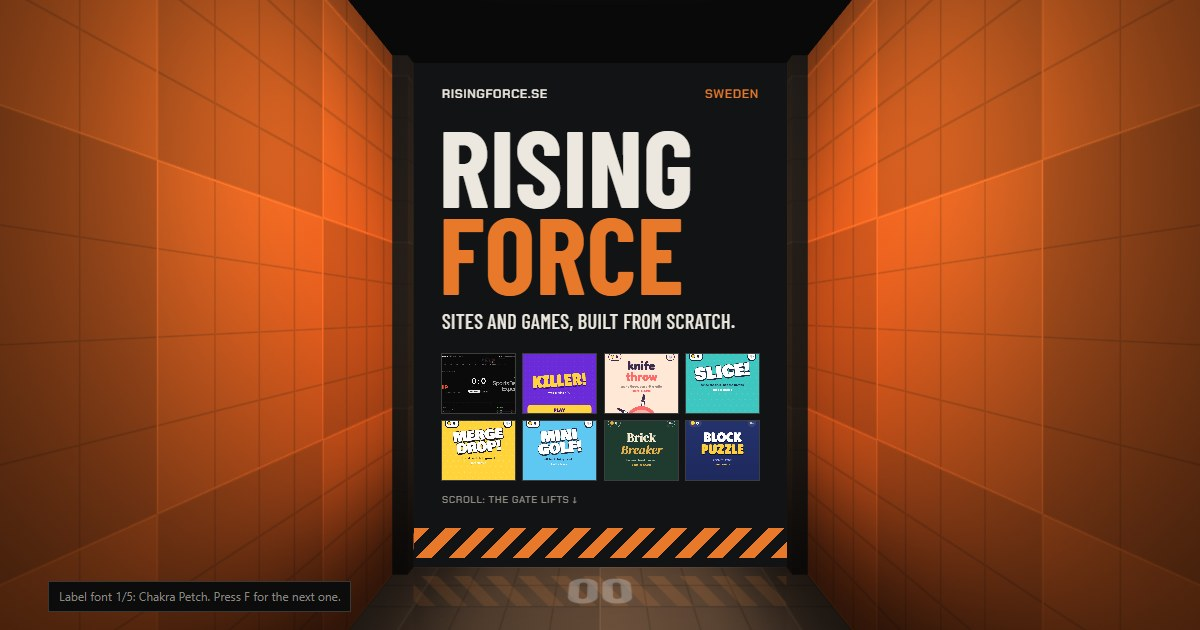
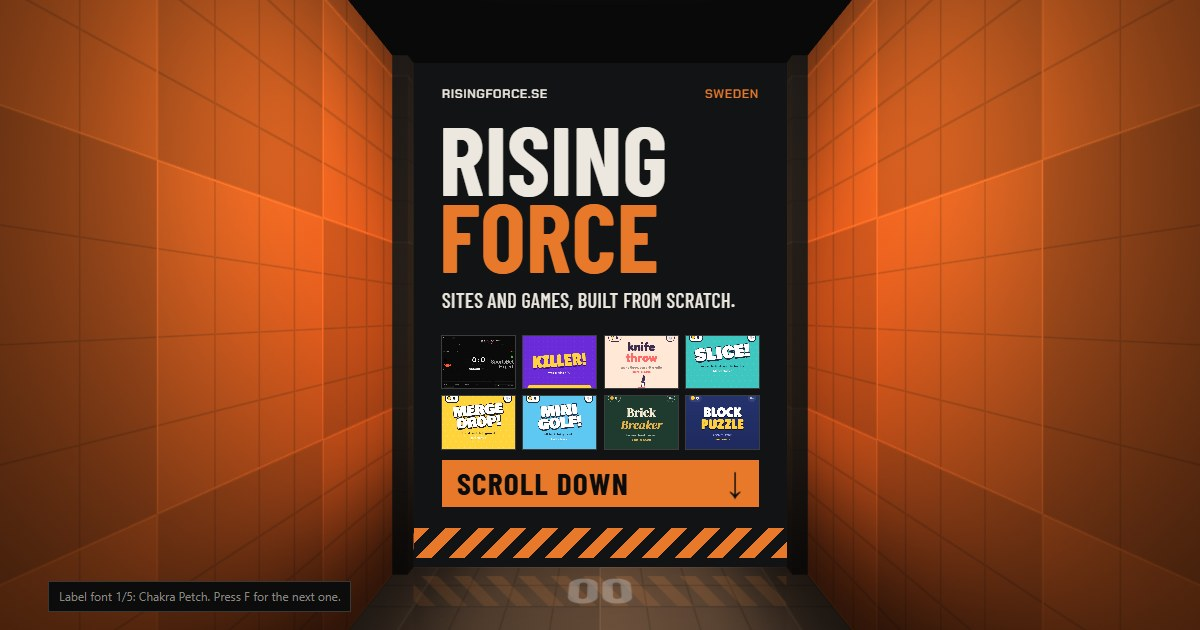
Make the scroll cue unmissable
The small "Scroll: the gate lifts" label on the entrance gate is now a
full-width orange SCROLL DOWN bar with a moving arrow. It is also a link to
the first project.

Changed region(s): [[0.37, 0.181, 0.6475, 0.8143]]

diff --git a/index.html b/index.html
@@ -58,18 +58,22 @@
 
   /* gate 0: the name, and what is behind it */
   .t-hero .top { font-size: calc(clamp(10px, 3.1cqw, 18px) * var(--lk, 1)); color: var(--ink); }
-  .t-hero h1 { font: 700 29cqw/.8 var(--cond); text-transform: uppercase; margin: 5cqw 0 0 -.03em; }
+  .t-hero h1 { font: 700 26cqw/.8 var(--cond); text-transform: uppercase; margin: 4cqw 0 0 -.03em; }
   .t-hero h1 span { display: block; }
   .t-hero h1 span + span { color: var(--dev); }
   .t-hero .tag { font: 500 5.4cqw/1.12 var(--cond); text-transform: uppercase; letter-spacing: .02em; margin-top: 4cqw; }
   .chips { display: grid; grid-template-columns: repeat(4, 1fr); gap: 2.2cqw; margin-top: auto; }
   .chip { position: relative; text-decoration: none; }
-  .chip img { width: 100%; aspect-ratio: 1.25; object-fit: cover; object-position: 50% 6%; box-shadow: 0 0 0 1px var(--line); }
+  .chip img { width: 100%; aspect-ratio: 1.4; object-fit: cover; object-position: 50% 6%; box-shadow: 0 0 0 1px var(--line); }
   .chip.tracker img { object-position: 50% 0; }
   .chip.killer img { object-position: 50% 20%; }
   .chip span { position: absolute; width: 1px; height: 1px; overflow: hidden; clip-path: inset(50%); }
   .chip:hover img { box-shadow: 0 0 0 2px var(--dev); }
-  .next { color: var(--dim); margin-top: 3.5cqw; }
+  /* the scroll cue: impossible to miss, and it works as a button too */
+  .next { display: flex; align-items: center; justify-content: space-between; margin-top: 3cqw; padding: 2cqw 4cqw 2.4cqw; background: var(--dev); color: #0c0c0d; font: 700 8.4cqw/1 var(--cond); letter-spacing: .04em; text-transform: uppercase; text-decoration: none; }
+  .next:hover { background: var(--ink); }
+  .next i { font-style: normal; animation: nudge 1s ease-in-out infinite; }
+  @keyframes nudge { 0%, 100% { transform: translateY(-.7cqw); } 50% { transform: translateY(.7cqw); } }
 
   /* Match Tracker: its own look (near black, Geist, orange only for what is live) */
   .t-tracker { --live: #ff5a2b; font-family: "Geist", var(--body); }
@@ -373,7 +377,7 @@ $("#stops").innerHTML = `
     <p class="tag">${esc(RF.tagline)}</p>
     <div class="chips">${RF.projects.map((p, i) => `<a class="chip ${esc(p.theme || "")}" href="#${esc(p.id)}" title="${esc(p.title)}">
       <img src="${esc(p.shots ? Object.values(p.shots)[0] : "")}" alt=""><span class="mono"><b>${pad(i + 1)}</b>${esc(p.title)}</span></a>`).join("")}</div>
-    <div class="next mono sm">Scroll: the gate lifts &darr;</div>
+    <a class="next" href="#${esc((RF.projects[0] || { id: "contact" }).id)}">Scroll down <i aria-hidden="true">&darr;</i></a>
   </div></div></section>` +
   RF.projects.map((p, i) => `<section class="stop" id="${esc(p.id)}"><article class="face">${faceOf[themeOf(i + 1)](p, i)}</article></section>`).join("") + `
   <section class="stop" id="contact"><div class="face"><div class="in t-contact">
